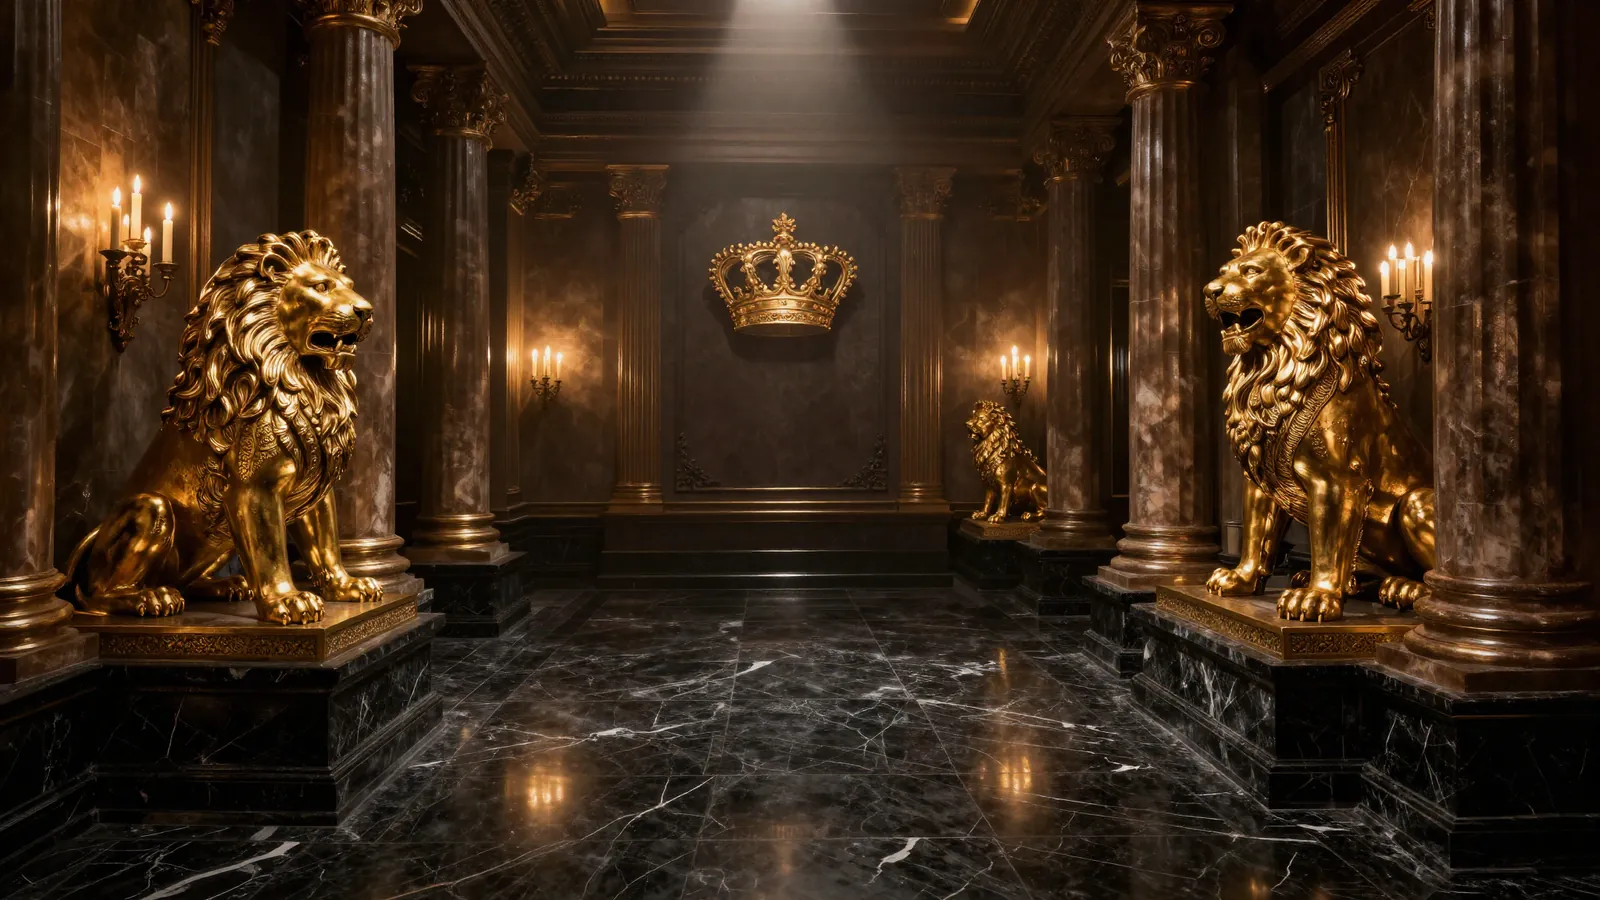
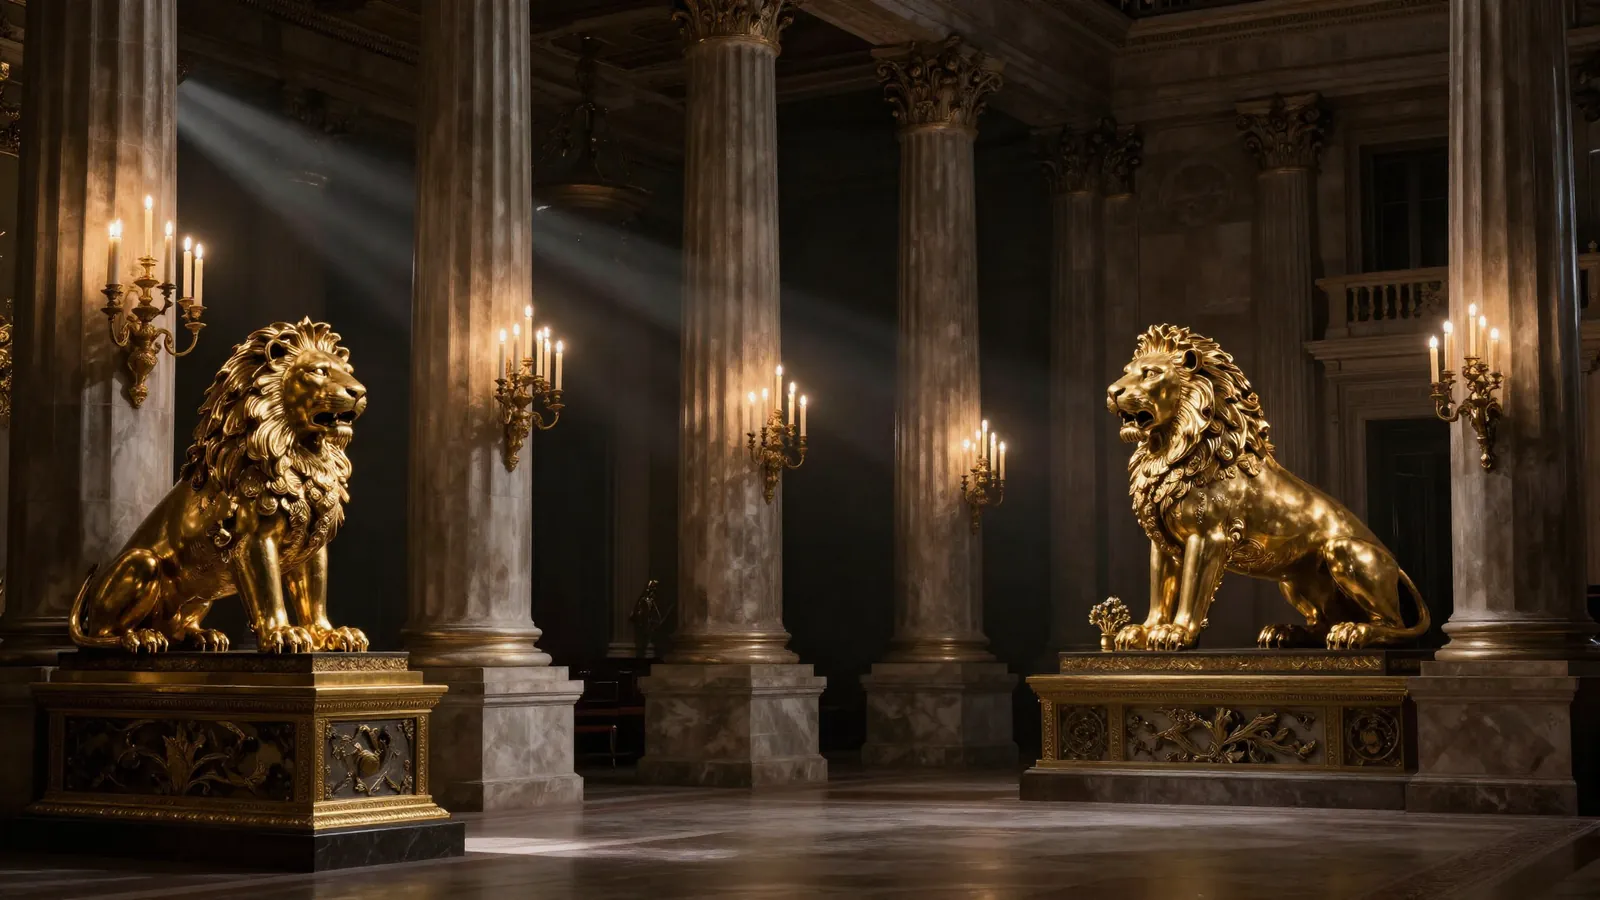
Hall of Kings: narrower podium, king's face visible, prominent lion backdrop
Podium constrained to max-w-5xl; champion portrait re-generated face-forward and re-cropped (h-52, object center-28%) so the king is clearly visible; hall backdrop re-generated with prominent flanking lions + lighter overlay so they read through.

diff --git a/src/components/home/HallOfKings.vue b/src/components/home/HallOfKings.vue
@@ -17,7 +17,7 @@ useReveal(root, { stagger: 0.1 })
     <div class="relative overflow-hidden rounded-[24px] border border-border-gold/20 px-5 py-8 shadow-[0_40px_110px_-45px_rgba(0,0,0,0.95)] sm:px-8 sm:py-10">
       <!-- Cinematic royal-hall backdrop -->
       <div
-        v-lazybg="`linear-gradient(180deg, rgba(7,7,9,0.66), rgba(7,7,9,0.82)), url('/assets/images/king-hall-bg.webp')`"
+        v-lazybg="`linear-gradient(180deg, rgba(7,7,9,0.55), rgba(7,7,9,0.74)), url('/assets/images/king-hall-bg.webp')`"
         class="absolute inset-0 bg-cover bg-center"
         :style="{ backgroundColor: '#08080a' }"
       />
@@ -46,7 +46,7 @@ useReveal(root, { stagger: 0.1 })
         </div>
 
         <!-- Podium -->
-        <div class="grid grid-cols-1 gap-4 sm:grid-cols-2 lg:grid-cols-3 lg:items-end">
+        <div class="mx-auto grid max-w-5xl grid-cols-1 gap-4 sm:grid-cols-2 lg:grid-cols-3 lg:items-end">
           <PodiumCard
             v-for="c in kingsChampions"
             :key="c.rank"

diff --git a/src/components/home/PodiumCard.vue b/src/components/home/PodiumCard.vue
@@ -62,7 +62,7 @@ const isSilver = props.champion.accent === 'silver'
           <img
             :src="champion.image"
             alt=""
-            class="relative mx-auto h-44 w-full object-cover object-top transition-transform duration-700 group-hover:scale-[1.03] motion-reduce:transform-none"
+            class="relative mx-auto h-52 w-full object-cover object-[center_28%] transition-transform duration-700 group-hover:scale-[1.03] motion-reduce:transform-none"
             style="-webkit-mask-image: linear-gradient(to bottom, transparent 0%, #000 13%, #000 80%, transparent 100%); mask-image: linear-gradient(to bottom, transparent 0%, #000 13%, #000 80%, transparent 100%)"
           />
           <span class="absolute bottom-0 left-1/2 inline-flex -translate-x-1/2 items-center gap-1.5 whitespace-nowrap rounded-full border border-gold/55 bg-black/60 px-3.5 py-1 font-sans text-[10px] font-bold uppercase tracking-[0.16em] text-gold-bright backdrop-blur">
